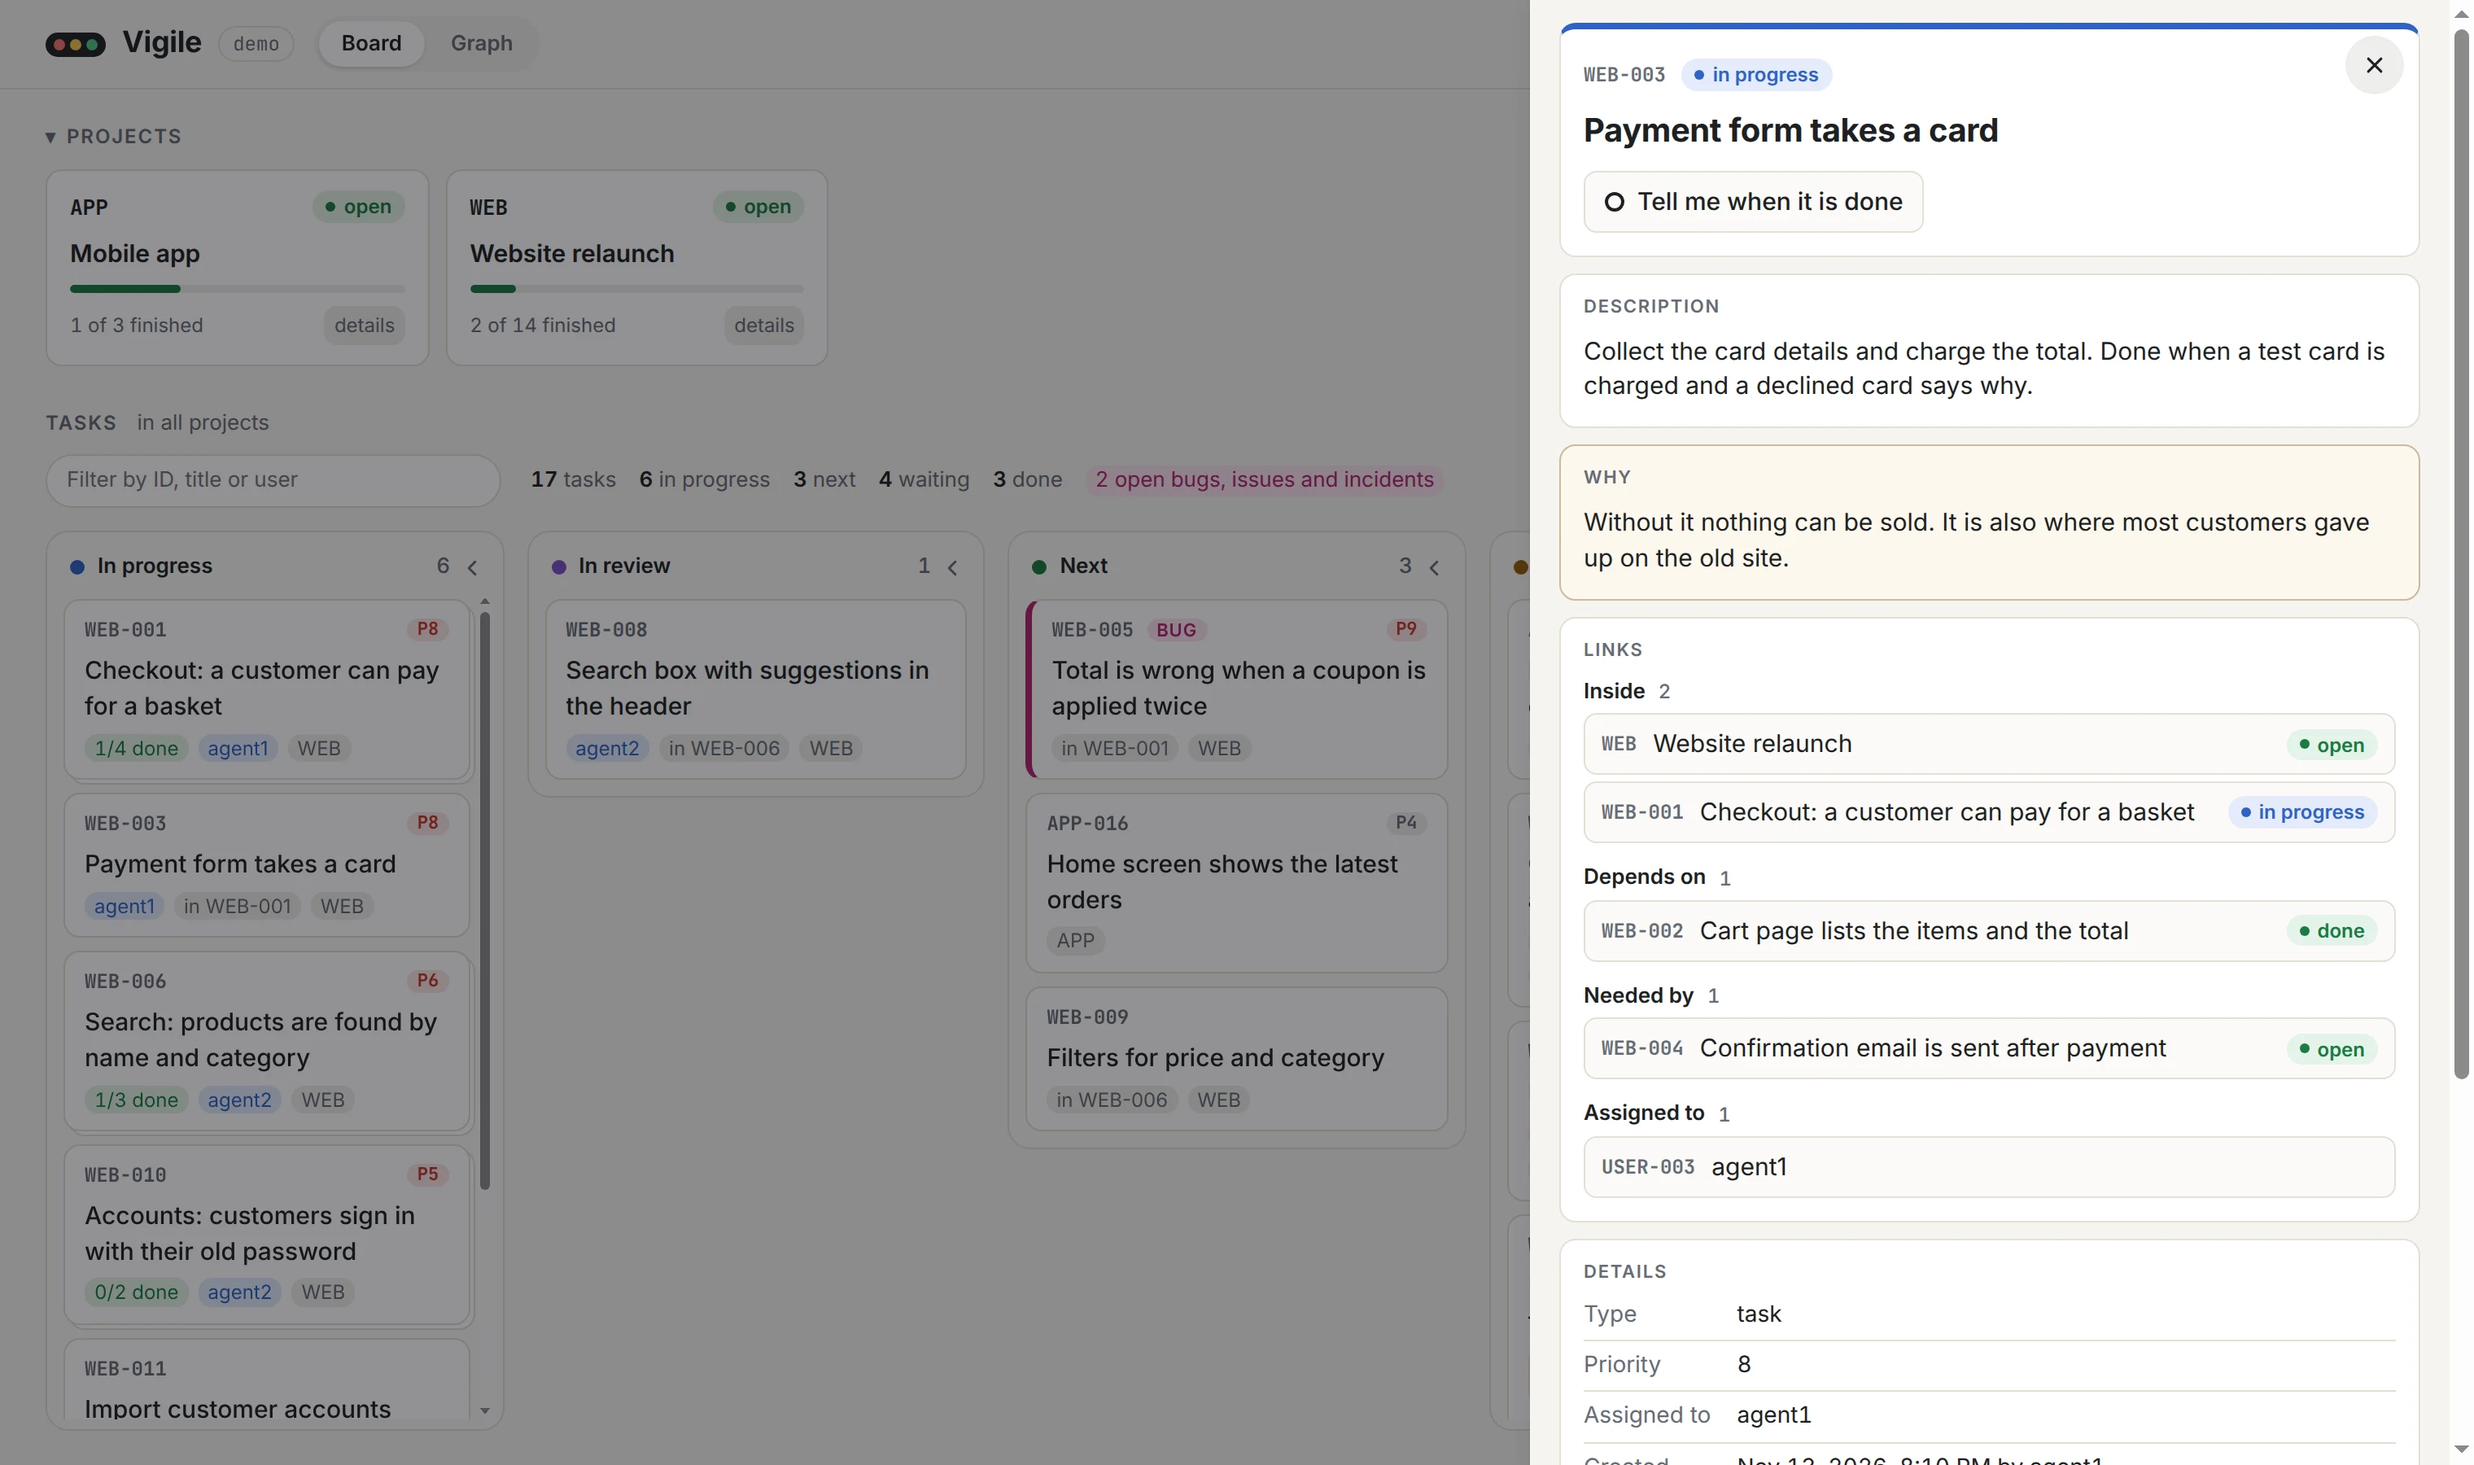
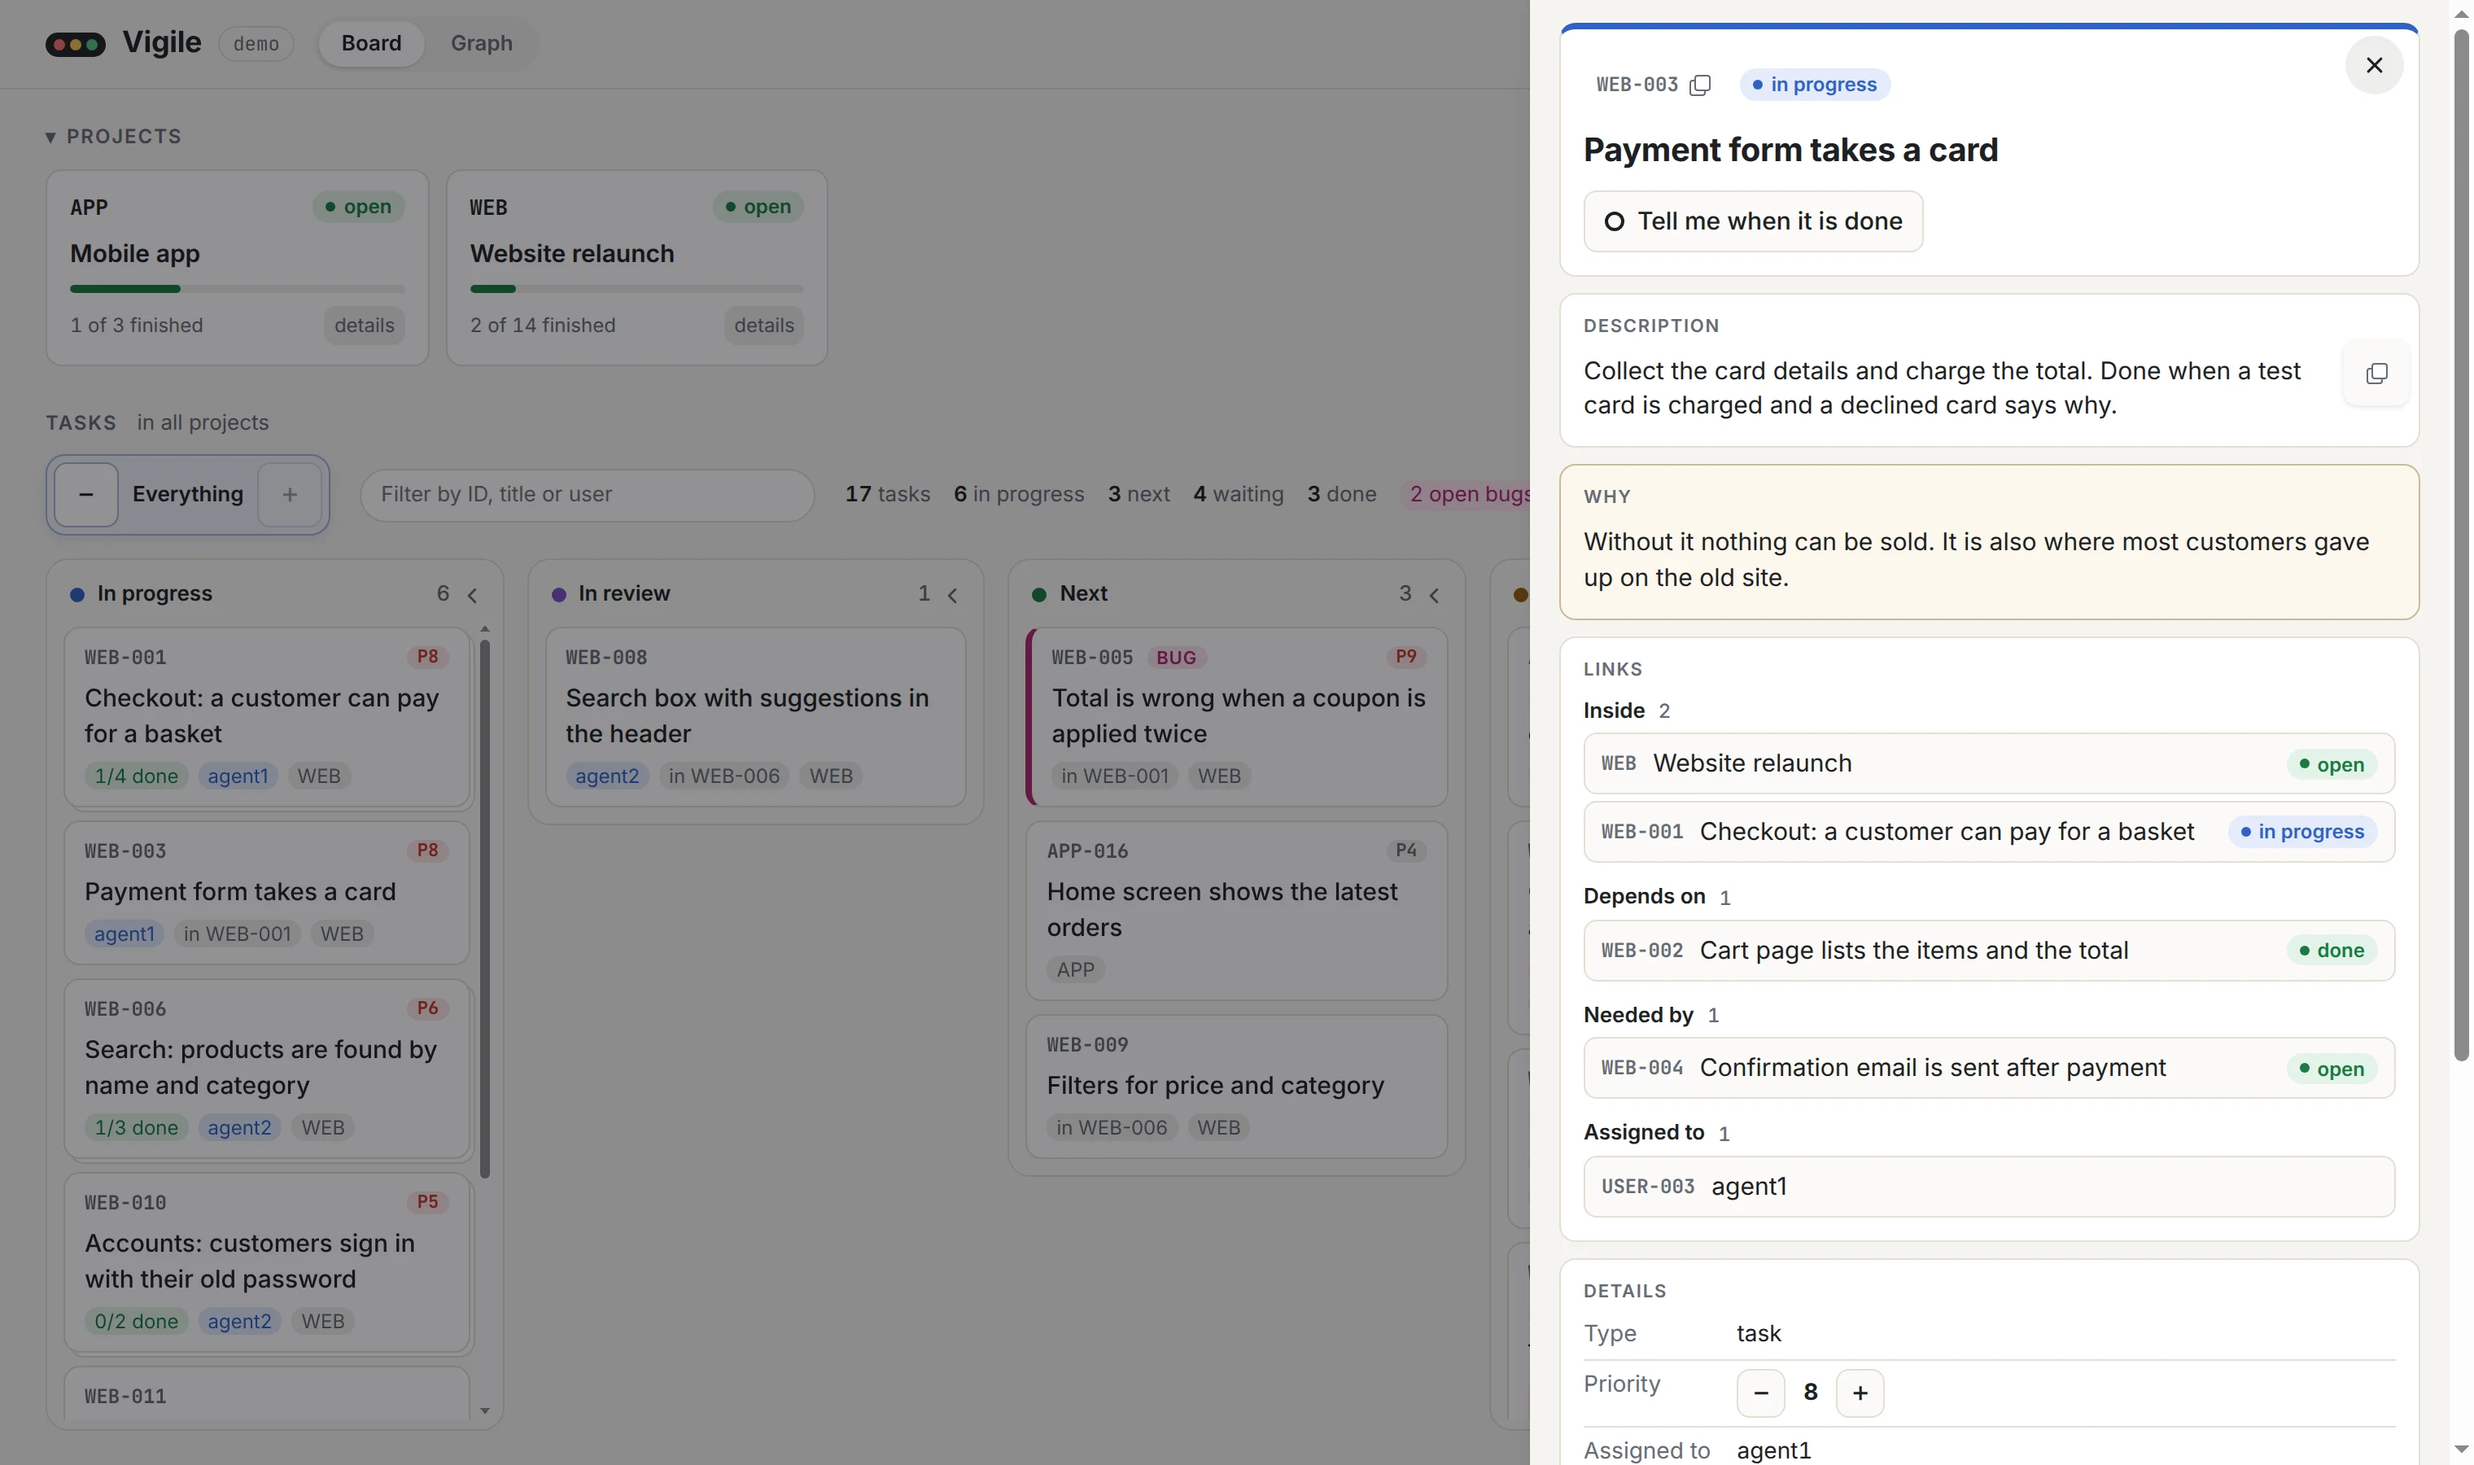
Copy item IDs and descriptions from the panel (#17)
## Summary

- make the ID in every open item panel a copy control with a full-size
target
- reveal a small description-copy control on hover, keyboard focus, and
touch layouts
- copy the exact ID or description text without closing or redrawing the
panel
- announce success or refusal visibly and to assistive technology while
retaining keyboard focus
- document the controls and refresh the panel screenshot

## Verification

- `pnpm test` — 561 tests passed
- focused click, keyboard, clipboard-refusal, phone, theme and
panel-layout browser tests passed

diff --git a/packages/web/public/app.js b/packages/web/public/app.js
@@ -1541,6 +1541,31 @@ function priorityControl(item, credential) {
  *   not shown and offers to try again.
  * - The reading fails: the panel says so and offers to try again, and keeps what it shows.
  */
+const copyNotices = new WeakMap();
+
+/** Copies an item's exact ID and says what happened without closing or redrawing its panel. */
+async function copyText(control, text) {
+  const feedback = control.querySelector(".copy-feedback");
+  let message = "Copied";
+  try {
+    if (!navigator.clipboard?.writeText) throw new Error("Clipboard access is unavailable");
+    await navigator.clipboard.writeText(text);
+    control.classList.remove("copy-failed");
+  } catch {
+    message = "Copy failed";
+    control.classList.add("copy-failed");
+  }
+  feedback.textContent = message;
+  clearTimeout(copyNotices.get(control));
+  copyNotices.set(
+    control,
+    setTimeout(() => {
+      if (feedback.isConnected) feedback.textContent = "";
+      control.classList.remove("copy-failed");
+    }, 2_000),
+  );
+}
+
 async function renderDetail(more) {
   // Locked out, the page asks the service for nothing: the item named in the address opens once it is let in.
   if (!state.open || locked) return false;
@@ -1705,7 +1730,13 @@ async function renderDetail(more) {
         el(
           "div",
           { class: "detail-head" },
-          el("span", { class: "id" }, item.id),
+          el(
+            "button",
+            { class: "id copy-id", type: "button", "aria-label": `Copy ID ${item.id}`, title: `Copy ${item.id} to the clipboard`, onclick: (event) => copyText(event.currentTarget, item.id) },
+            item.id,
+            el("span", { class: "copy-glyph", "aria-hidden": "true" }),
+            el("span", { class: "copy-feedback", role: "status", "aria-live": "polite" }),
+          ),
           item.type && item.type !== "task" && el("span", { class: "type" }, item.type),
           item.status && pill(item.status),
           // A deleted item is not work any more, whatever status it was left in.
@@ -1733,7 +1764,22 @@ async function renderDetail(more) {
           `Show only this group (${item.progress.total} ${item.progress.total === 1 ? "task" : "tasks"})`,
         ),
       ),
-      item.description !== undefined && block("Description", el("p", { class: `description${item.description ? "" : " none"}` }, item.description || "No description.")),
+      item.description !== undefined &&
+        block(
+          "Description",
+          el(
+            "div",
+            { class: "description-copy" },
+            el("p", { class: `description${item.description ? "" : " none"}` }, item.description || "No description."),
+            item.description &&
+              el(
+                "button",
+                { class: "copy-description", type: "button", "aria-label": "Copy description", title: "Copy description to the clipboard", onclick: (event) => copyText(event.currentTarget, item.description) },
+                el("span", { class: "copy-glyph", "aria-hidden": "true" }),
+                el("span", { class: "copy-feedback", role: "status", "aria-live": "polite" }),
+              ),
+          ),
+        ),
       item.why && el("section", { class: "block why" }, el("h3", {}, "Why"), el("p", { class: "description" }, item.why)),
       links.length ? block("Links", links) : null,
       block("Details", el("dl", { class: "facts" }, facts.flatMap(([name, value]) => [el("dt", {}, name), el("dd", {}, value)]))),
@@ -1785,7 +1831,7 @@ function placeInPanel() {
   // its label, a link shows the state of what it leads to, and both change while the control stays the same one.
   // A link is the one of its kind to its item: a task can both hold and wait for the same task.
   const name = (control) =>
-    control.matches("summary") ? "summary" : control.matches(".further") ? `further ${control.dataset.list}` : control.matches(".link") ? `link ${control.closest(".relation")?.dataset.relation} ${control.querySelector(".id")?.textContent}` : control.className || control.textContent;
+    control.matches(".copy-id") ? "copy-id" : control.matches(".copy-description") ? "copy-description" : control.matches("summary") ? "summary" : control.matches(".further") ? `further ${control.dataset.list}` : control.matches(".link") ? `link ${control.closest(".relation")?.dataset.relation} ${control.querySelector(".id")?.textContent}` : control.className || control.textContent;
   const wanted = name(at);
   return () => [...$("detail").querySelectorAll("button, summary, a[href]")].find((control) => control.tagName === at.tagName && name(control) === wanted);
 }

diff --git a/packages/cli/src/browser.test.ts b/packages/cli/src/browser.test.ts
@@ -460,6 +460,43 @@ describe("the page in a browser", { skip: browser ? false : "no Chromium found; 
       });
     });
 
+    it("copies an open item's ID and description by click or keyboard, and says when copying is refused", async () => {
+      await page.size(1280, 900);
+      await load();
+      await page.run("Object.defineProperty(navigator, 'clipboard', { configurable: true, value: { writeText: async (text) => { window.copiedId = text; } } })");
+      await page.click(`.column[data-tone='busy'] .card`);
+      await page.until("return !document.getElementById('panel').hidden", "the panel");
+      const id = await text(".detail-head .copy-id");
+      assert.equal(id, ids.address);
+      assert.deepEqual(
+        await page.run("const button = document.querySelector('.copy-id'); const box = button.getBoundingClientRect(); return [button.getAttribute('aria-label'), button.title, Math.round(box.height), button.querySelector('.copy-glyph').getAttribute('aria-hidden')];"),
+        [`Copy ID ${ids.address}`, `Copy ${ids.address} to the clipboard`, 40, "true"],
+      );
+      await page.run("document.querySelector('.copy-id').focus()");
+      await page.key("Enter");
+      await page.until(`return window.copiedId === ${JSON.stringify(ids.address)} && document.querySelector('.copy-feedback').textContent === 'Copied'`, "the ID to be copied and confirmed");
+      assert.equal(await page.run<string>("return document.activeElement.className"), "id copy-id", "copying keeps the keyboard on the control");
+
+      const hoverless = await page.run<boolean>("return matchMedia('(hover: none)').matches");
+      assert.deepEqual(
+        await page.run("const button = document.querySelector('.copy-description'); return [button.getAttribute('aria-label'), button.title, getComputedStyle(button).opacity, matchMedia('(hover: none)').matches, button.querySelector('.copy-glyph').getAttribute('aria-hidden')];"),
+        ["Copy description", "Copy description to the clipboard", hoverless ? "1" : "0", hoverless, "true"],
+        "the description offers a small copy control only on interaction",
+      );
+      await page.run("document.querySelector('.copy-description').focus()");
+      await page.until("return getComputedStyle(document.querySelector('.copy-description')).opacity === '1'", "keyboard focus to reveal the hover control");
+      await page.key("Space");
+      await page.until("return window.copiedId === 'Description of Address form.' && document.querySelector('.copy-description .copy-feedback').textContent === 'Copied'", "the exact description to be copied and confirmed");
+      assert.equal(await page.run<string>("return document.activeElement.className"), "copy-description", "copying the description keeps the keyboard on its control");
+
+      await page.run("navigator.clipboard.writeText = async () => { throw new Error('refused'); }");
+      await page.click(".copy-id");
+      await page.until("return document.querySelector('.copy-feedback').textContent === 'Copy failed'", "the refused copy to be reported");
+      assert.equal(await panelOpen(), true, "a refused clipboard write leaves the item open");
+      assert.deepEqual(page.errors, []);
+      await page.key("Escape");
+    });
+
     it("follows a link inside the panel to the linked item, and scrolls a long panel inside itself", async () => {
       await load();
       await page.click(`.card`, await page.run<number>(`return [...document.querySelectorAll('.card')].findIndex((c) => c.querySelector('.id').textContent === ${JSON.stringify(ids.many)})`));

diff --git a/packages/web/public/style.css b/packages/web/public/style.css
@@ -468,6 +468,24 @@ body.graph-full main { padding: 10px 12px 12px; }
 .detail-top[data-tone="busy"] { border-top-color: var(--busy); }
 .detail-top[data-tone="review"] { border-top-color: var(--review); }
 .detail-head { display: flex; align-items: center; gap: 8px 10px; flex-wrap: wrap; padding-right: 44px; min-height: 28px; }
+.copy-id { display: inline-flex; align-items: center; gap: 6px; min-height: 40px; padding: 6px 8px; border: 0; border-radius: var(--r-s); background: none; cursor: pointer; }
+.copy-id:hover { background: var(--idle-soft); color: var(--text); }
+.copy-id:focus-visible { outline: 2px solid var(--busy); outline-offset: 2px; }
+.copy-glyph { position: relative; width: 14px; height: 14px; color: var(--muted); }
+.copy-glyph::before, .copy-glyph::after { content: ""; position: absolute; width: 8px; height: 8px; border: 1.5px solid currentColor; border-radius: 2px; }
+.copy-glyph::before { left: 1px; top: 4px; }
+.copy-glyph::after { left: 4px; top: 1px; background: var(--surface); }
+.copy-feedback { padding: 1px 6px; border-radius: var(--r-pill); background: var(--go-soft); color: var(--go); font: 600 11px var(--sans); }
+.copy-feedback:empty { position: absolute; width: 1px; height: 1px; overflow: hidden; padding: 0; clip-path: inset(50%); white-space: nowrap; }
+.copy-id.copy-failed .copy-feedback { background: var(--stop-soft); color: var(--stop); }
+.description-copy { position: relative; min-width: 0; }
+.description-copy .description { padding-right: 36px; }
+.copy-description { position: absolute; top: -8px; right: -8px; display: inline-flex; align-items: center; justify-content: center; gap: 6px; min-width: 40px; height: 40px; padding: 0 10px; border: 0; border-radius: var(--r-s); background: var(--raised); color: var(--muted); box-shadow: 0 1px 3px color-mix(in srgb, var(--text) 12%, transparent); cursor: pointer; opacity: 0; transition-property: opacity, background-color, color; transition-duration: 140ms; transition-timing-function: ease-out; }
+.description-copy:hover .copy-description, .description-copy:focus-within .copy-description, .copy-description:has(.copy-feedback:not(:empty)) { opacity: 1; }
+.copy-description:hover { background: var(--idle-soft); color: var(--text); }
+.copy-description:focus-visible { opacity: 1; outline: 2px solid var(--busy); outline-offset: 2px; }
+.copy-description.copy-failed .copy-feedback { background: var(--stop-soft); color: var(--stop); }
+@media (hover: none) { .copy-description { opacity: 1; } }
 .detail-title { margin: 8px 0 0; font-size: 20px; line-height: 1.25; letter-spacing: -0.01em; text-wrap: balance; overflow-wrap: anywhere; }
 .back { display: flex; align-items: center; gap: 8px; width: 100%; min-height: 36px; padding: 6px 12px; border: 1px solid var(--line); border-radius: var(--r-m); background: var(--raised); cursor: pointer; text-align: left; color: var(--muted); font-size: 13px; }
 .back:hover { box-shadow: var(--shadow); color: var(--text); }

diff --git a/README.md b/README.md
@@ -244,6 +244,9 @@ follows the filter letter by letter; the graph is drawn again once the typing
 pauses. Clicking a task or a project opens a panel with its description,
 reason, links, details, status timeline and history. Following a link in the
 panel opens the linked item, with a button back to the one you came from. The
+item ID is a copy button. Moving over the description reveals a small copy
+button for its exact text; both controls also work from the keyboard and say
+whether the copy succeeded. The
 panel shows the first 100 links of each kind and the latest 100 entries of the
 timeline and of the history; where there are more it says how many, with a
 button that reads on. When the panel cannot read an item, or more of it, it
